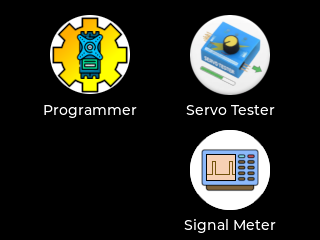
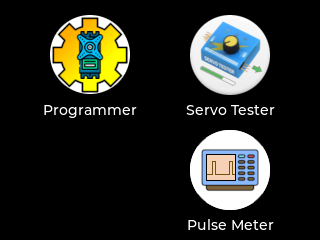
Added frequency indication in pulse meter screen

Changed region(s): [[0.5625, 0.9042, 0.875, 0.9917]]

diff --git a/ServoTester/screens.c b/ServoTester/screens.c
@@ -20,6 +20,7 @@ void create_screen_main() {
     lv_obj_set_pos(obj, 0, 0);
     lv_obj_set_size(obj, 320, 240);
     lv_obj_set_style_bg_color(obj, lv_color_hex(0xff000000), LV_PART_MAIN | LV_STATE_DEFAULT);
+    lv_obj_set_style_margin_right(obj, 0, LV_PART_MAIN | LV_STATE_DEFAULT);
     {
         lv_obj_t *parent_obj = obj;
         {
@@ -1270,11 +1271,41 @@ void create_screen_meter() {
             // pulsevaluelbl
             lv_obj_t *obj = lv_label_create(parent_obj);
             objects.pulsevaluelbl = obj;
-            lv_obj_set_pos(obj, 40, 94);
-            lv_obj_set_size(obj, 240, LV_SIZE_CONTENT);
+            lv_obj_set_pos(obj, 50, 80);
+            lv_obj_set_size(obj, 147, LV_SIZE_CONTENT);
             lv_obj_set_style_text_font(obj, &lv_font_montserrat_48, LV_PART_MAIN | LV_STATE_DEFAULT);
             lv_obj_set_style_text_align(obj, LV_TEXT_ALIGN_RIGHT, LV_PART_MAIN | LV_STATE_DEFAULT);
-            lv_label_set_text(obj, "1500 us");
+            lv_label_set_text(obj, "1500");
+        }
+        {
+            // pulsevalueunits
+            lv_obj_t *obj = lv_label_create(parent_obj);
+            objects.pulsevalueunits = obj;
+            lv_obj_set_pos(obj, 212, 80);
+            lv_obj_set_size(obj, 72, LV_SIZE_CONTENT);
+            lv_obj_set_style_text_font(obj, &lv_font_montserrat_48, LV_PART_MAIN | LV_STATE_DEFAULT);
+            lv_obj_set_style_text_align(obj, LV_TEXT_ALIGN_LEFT, LV_PART_MAIN | LV_STATE_DEFAULT);
+            lv_label_set_text(obj, "us");
+        }
+        {
+            // frequencyvaluelbl
+            lv_obj_t *obj = lv_label_create(parent_obj);
+            objects.frequencyvaluelbl = obj;
+            lv_obj_set_pos(obj, 50, 155);
+            lv_obj_set_size(obj, 147, LV_SIZE_CONTENT);
+            lv_obj_set_style_text_font(obj, &lv_font_montserrat_48, LV_PART_MAIN | LV_STATE_DEFAULT);
+            lv_obj_set_style_text_align(obj, LV_TEXT_ALIGN_RIGHT, LV_PART_MAIN | LV_STATE_DEFAULT);
+            lv_label_set_text(obj, "50");
+        }
+        {
+            // frequencyvalueunits
+            lv_obj_t *obj = lv_label_create(parent_obj);
+            objects.frequencyvalueunits = obj;
+            lv_obj_set_pos(obj, 211, 155);
+            lv_obj_set_size(obj, 73, LV_SIZE_CONTENT);
+            lv_obj_set_style_text_font(obj, &lv_font_montserrat_48, LV_PART_MAIN | LV_STATE_DEFAULT);
+            lv_obj_set_style_text_align(obj, LV_TEXT_ALIGN_LEFT, LV_PART_MAIN | LV_STATE_DEFAULT);
+            lv_label_set_text(obj, "Hz");
         }
     }
     

diff --git a/ServoTester/screens.h b/ServoTester/screens.h
@@ -73,6 +73,9 @@ typedef struct _objects_t {
     lv_obj_t *obj5;
     lv_obj_t *obj6;
     lv_obj_t *pulsevaluelbl;
+    lv_obj_t *pulsevalueunits;
+    lv_obj_t *frequencyvaluelbl;
+    lv_obj_t *frequencyvalueunits;
 } objects_t;
 
 extern objects_t objects;
